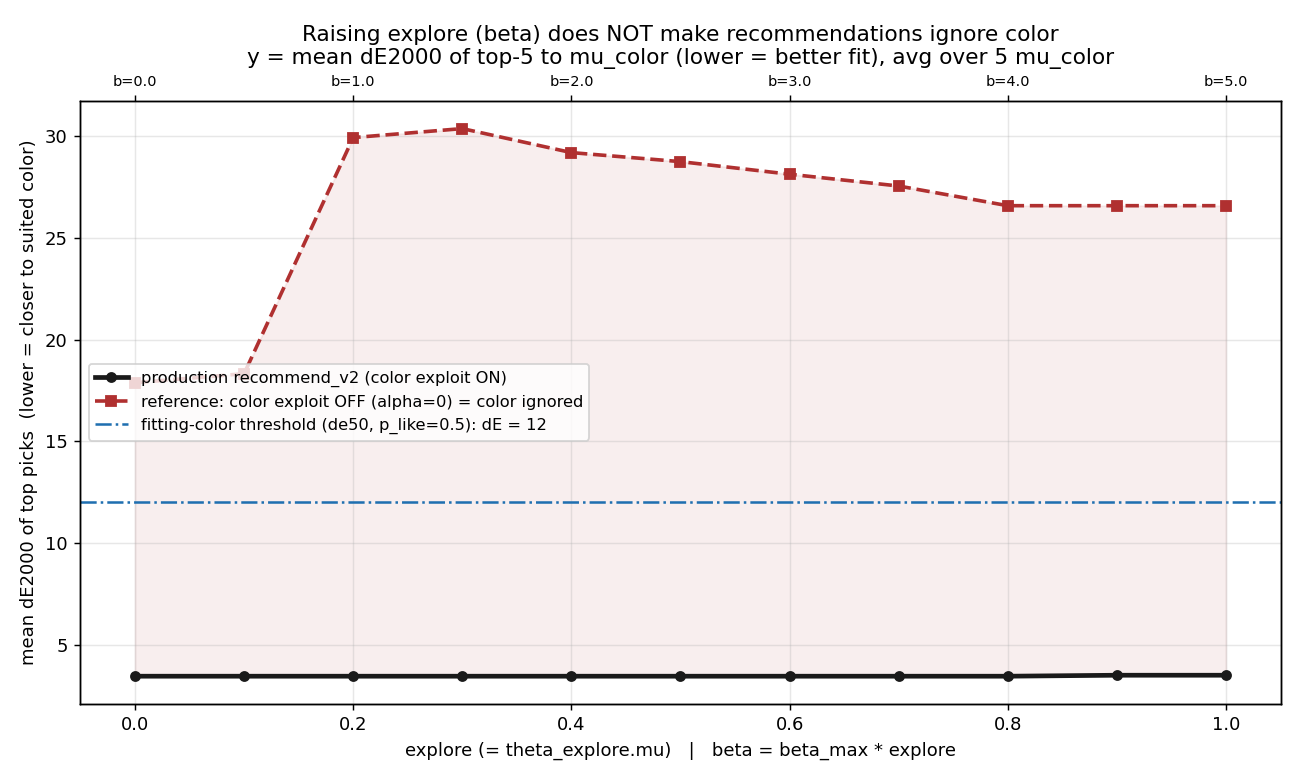
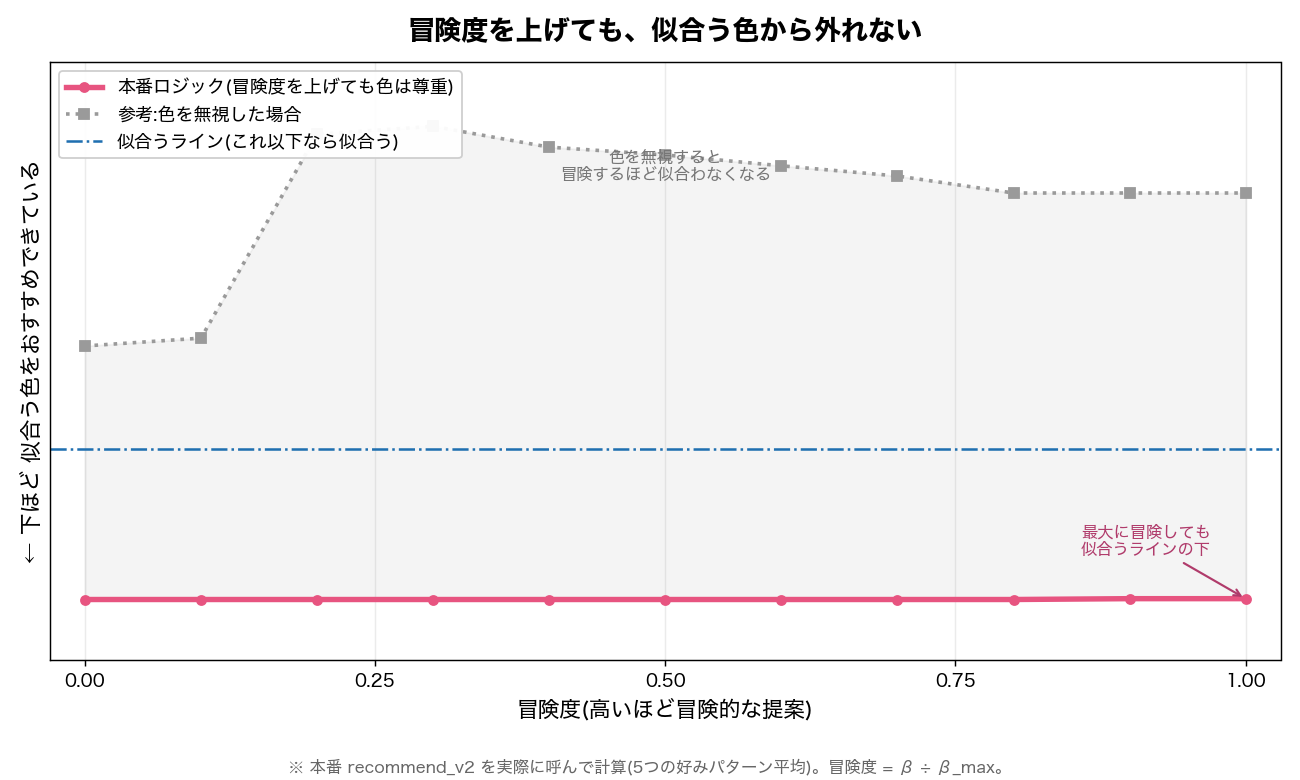
explore_vs_fit を体験型(日本語・役員向け)に作り直し
他の体験版グラフと統一: 日本語ラベル(Hiragino)、縦軸の数値は伏せ、
配色を主役=本番(ピンク)/参考=色無視(灰点線)/似合うライン(青)に。
- タイトル「冒険度を上げても、似合う色から外れない」
- 本番は最大冒険でも似合うラインの下、色無視は冒険で離れる、を注記
- 計算ロジック・stdout の数値検証は不変(描画スタイルのみ変更)

スコープ: 既存コード/テストは未変更。

diff --git a/plot_explore_vs_fit.py b/plot_explore_vs_fit.py
@@ -111,11 +111,18 @@ def _mean_top_de(km, mu_color, explore, alpha=None) -> Tuple[float, float]:
 def main() -> None:
     import matplotlib
     matplotlib.use("Agg")
-    try:
-        import japanize_matplotlib  # noqa: F401
-    except Exception:
-        pass
     import matplotlib.pyplot as plt
+    from matplotlib import font_manager as fm
+    # 役員向け: 日本語フォント(Hiragino 等)を設定。無ければ英語にフォールバック。
+    jp = False
+    _names = {f.name for f in fm.fontManager.ttflist}
+    for _cand in ("Hiragino Sans", "Hiragino Maru Gothic Pro", "YuGothic",
+                  "Arial Unicode MS", "AppleGothic"):
+        if _cand in _names:
+            matplotlib.rcParams["font.family"] = _cand
+            matplotlib.rcParams["axes.unicode_minus"] = False  # マイナス記号の豆腐回避
+            jp = True
+            break
 
     km = _load_km_table()
     # 本番既定の係数を req から取得(ハードコードしない)
@@ -153,31 +160,62 @@ def main() -> None:
     # 床(本番カーブの最悪値=最大 ΔE)= 最冒険でも似合い度はここまでしか崩れない。
     floor_val = max(prod_curve)
 
+    # 体験型ラベル(役員向け・日本語。フォント無しなら英語)
+    C_PROD, C_IGNORE, C_THRESH = "#e75480", "#9a9a9a", "#1f6fb0"
+    if jp:
+        lab_prod = "本番ロジック(冒険度を上げても色は尊重)"
+        lab_ignore = "参考:色を無視した場合"
+        lab_thresh = "似合うライン(これ以下なら似合う)"
+        title = "冒険度を上げても、似合う色から外れない"
+        xlabel = "冒険度(高いほど冒険的な提案)"
+        ylabel = "← 下ほど 似合う色をおすすめできている"
+        ann_prod = "最大に冒険しても\n似合うラインの下"
+        ann_ignore = "色を無視すると\n冒険するほど似合わなくなる"
+        caption = ("※ 本番 recommend_v2 を実際に呼んで計算(5つの好みパターン平均)。"
+                   "冒険度 = β ÷ β_max。")
+    else:
+        lab_prod = "production (color respected)"
+        lab_ignore = "reference: color ignored"
+        lab_thresh = "fitting line (suitable below this)"
+        title = "Raising adventurousness does NOT abandon suitable colors"
+        xlabel = "adventurousness (higher = bolder suggestions)"
+        ylabel = "lower = better at recommending suitable colors"
+        ann_prod = "even at max,\nstays below the line"
+        ann_ignore = "ignoring color gets\nworse as you explore"
+        caption = ("Production recommend_v2 actually invoked (avg over 5 preference "
+                   "patterns). adventurousness = beta / beta_max.")
+
+    ytop = max(noColor_curve) * 1.12
     fig, ax = plt.subplots(figsize=(10, 6))
-    ax.plot(explores, prod_curve, color="#1a1a1a", lw=2.6, marker="o", ms=5,
-            label="production recommend_v2 (color exploit ON)")
-    ax.plot(explores, noColor_curve, color="#b03030", lw=2, ls="--", marker="s", ms=5,
-            label="reference: color exploit OFF (alpha=0) = color ignored")
+    ax.plot(explores, prod_curve, color=C_PROD, lw=3.0, marker="o", ms=5, label=lab_prod)
+    ax.plot(explores, noColor_curve, color=C_IGNORE, lw=2.0, ls=":", marker="s", ms=5,
+            label=lab_ignore)
     # しきい線: p(like)=0.5 となる ΔE=de50。これ以下なら「似合う色」。本番はずっと下側。
-    ax.axhline(FIT_THRESHOLD, color="#1f6fb0", ls="-.", lw=1.4,
-               label=f"fitting-color threshold (de50, p_like=0.5): dE = {FIT_THRESHOLD:.0f}")
-    ax.fill_between(explores, prod_curve, noColor_curve, color="#b03030", alpha=0.08)
-    ax.set_title("Raising explore (beta) does NOT make recommendations ignore color\n"
-                 f"y = mean dE2000 of top-{TOP_N} to mu_color (lower = better fit), "
-                 f"avg over {len(MU_COLORS)} mu_color")
-    ax.set_xlabel("explore (= theta_explore.mu)   |   beta = beta_max * explore")
-    ax.set_ylabel("mean dE2000 of top picks  (lower = closer to suited color)")
-    ax.grid(alpha=0.3)
-    ax.legend(fontsize=9, loc="center left")
-    secax = ax.twiny()
-    secax.set_xlim(ax.get_xlim())
-    secax.set_xticks(explores[::2])
-    secax.set_xticklabels([f"b={beta_max * e:.1f}" for e in explores[::2]], fontsize=8)
+    ax.axhline(FIT_THRESHOLD, color=C_THRESH, ls="-.", lw=1.4, label=lab_thresh)
+    ax.fill_between(explores, prod_curve, noColor_curve, color=C_IGNORE, alpha=0.10)
+    # 本番ラインの優位を注記(最大冒険でもしきい値の下に留まる)
+    ax.annotate(ann_prod, xy=(explores[-1], prod_curve[-1]),
+                xytext=(explores[-1] - 0.03, FIT_THRESHOLD * 0.5), ha="right",
+                fontsize=9, color="#b03b6b",
+                arrowprops=dict(arrowstyle="->", color="#b03b6b", lw=1.2))
+    ax.text(0.5, max(noColor_curve) * 0.9, ann_ignore, ha="center", fontsize=9,
+            color="#777")
+
+    ax.set_title(title, fontsize=15, fontweight="bold", pad=12)
+    ax.set_xlabel(xlabel, fontsize=12)
+    ax.set_ylabel(ylabel, fontsize=12)
+    ax.set_xlim(-0.03, 1.03)
+    ax.set_ylim(0, ytop)
+    ax.set_xticks([0.0, 0.25, 0.5, 0.75, 1.0])
+    ax.tick_params(axis="y", left=False, labelleft=False)  # 役員向け:縦軸の数値は隠す
+    ax.grid(alpha=0.25, axis="x")
+    ax.legend(fontsize=10, loc="upper left", framealpha=0.95)
+    fig.text(0.5, 0.01, caption, ha="center", fontsize=9, color="#666")
 
     out = os.path.join(os.path.dirname(os.path.abspath(__file__)),
                        "docs", "figures", "explore_vs_fit.png")
     os.makedirs(os.path.dirname(out), exist_ok=True)
-    fig.tight_layout()
+    fig.tight_layout(rect=[0, 0.05, 1, 1])
     fig.savefig(out, dpi=130)
     plt.close(fig)
     print(f"\nproduction: explore0={prod_curve[0]:.2f} -> explore1={prod_curve[-1]:.2f} "
